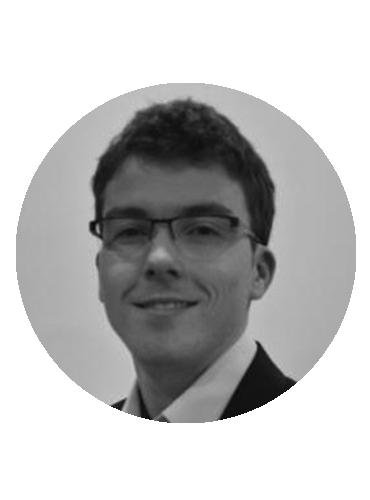
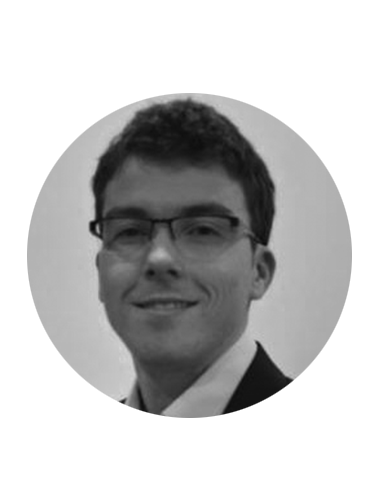
reduce size

Changed region(s): [[0.0297, 0.15, 0.9811, 0.87]]

diff --git a/index.html b/index.html
@@ -189,7 +189,7 @@
                 </ul>
               </div>
               <a target="_blank" href="http://sandbox.unisphere.eu" class="hidden-xs primary-button button-inverse">Try the demo</a>
-              <div class="col-md-6">
+              <div class="col-md-6 feature-visual">
                 <img src="video/share.gif" class="fadeRight animated" alt="Share demo">
               </div>
             </div>
@@ -209,8 +209,8 @@
                 </ul>
               </div>
               <a target="_blank" href="http://sandbox.unisphere.eu" class="hidden-xs primary-button button-inverse">Try the demo</a>
-              <div class="col-md-6">
-                <img src="img/mockups/tab_comp2.png" class="fadeRight animated" alt="Assignments demo">
+              <div class="col-md-6 feature-visual">
+                <img src="video/assignment.gif" class="fadeRight animated" alt="Assignment demo">
               </div>
             </div>
             <!-- END TAB 3 -->
